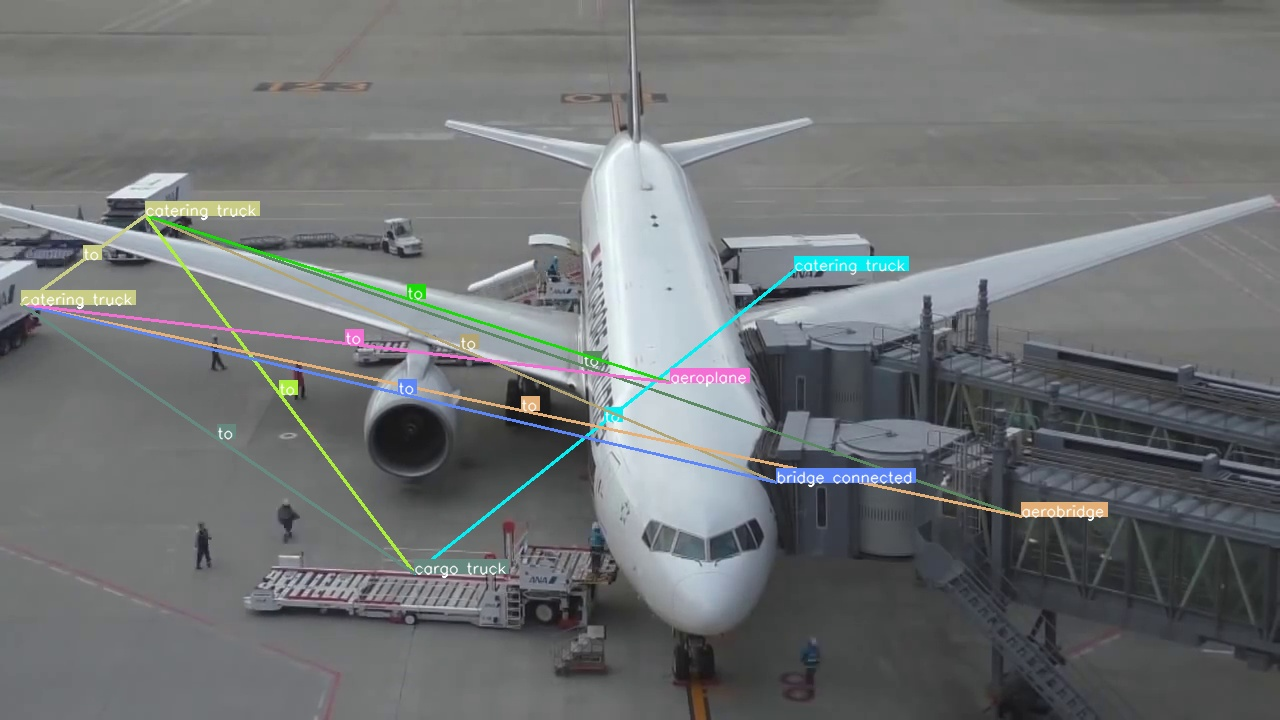
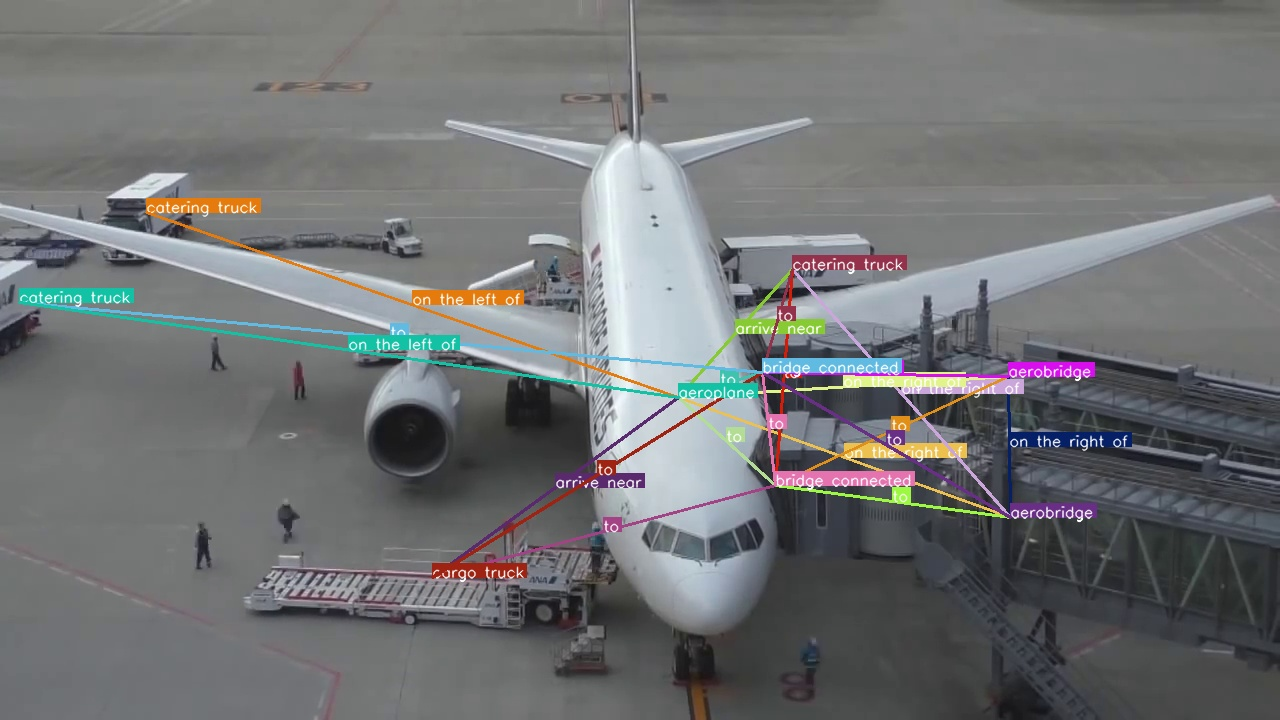
updated rlp dataloader

diff --git a/config.py b/config.py
@@ -21,7 +21,7 @@ __C = AttrDict()
 #   from fast_rcnn_config import cfg
 cfg = __C
 
-__C.DEVICE = 'cuda:1'
+__C.DEVICE = 'cpu'
 
 #
 # Training options
@@ -175,7 +175,7 @@ __C.RPN.POSITIVE_FRACTION = 0.5
 #
 
 __C.TEST = AttrDict()
-__C.TEST.THRESHOLD = 0.1
+__C.TEST.THRESHOLD = 0.8
 
 
 #
@@ -183,7 +183,7 @@ __C.TEST.THRESHOLD = 0.1
 #
 
 __C.DATASET_DIR = os.path.join(os.path.dirname(
-    os.path.abspath(__file__)), 'data', 'Aircraft')
+    os.path.abspath(__file__)), 'data', 'VRD')
 
 __C.WORD_VECTORS_DIR = os.path.join(os.path.dirname(os.path.abspath(
     __file__)), 'data', 'wordvectors', 'GoogleNews-vectors-negative300.bin')
